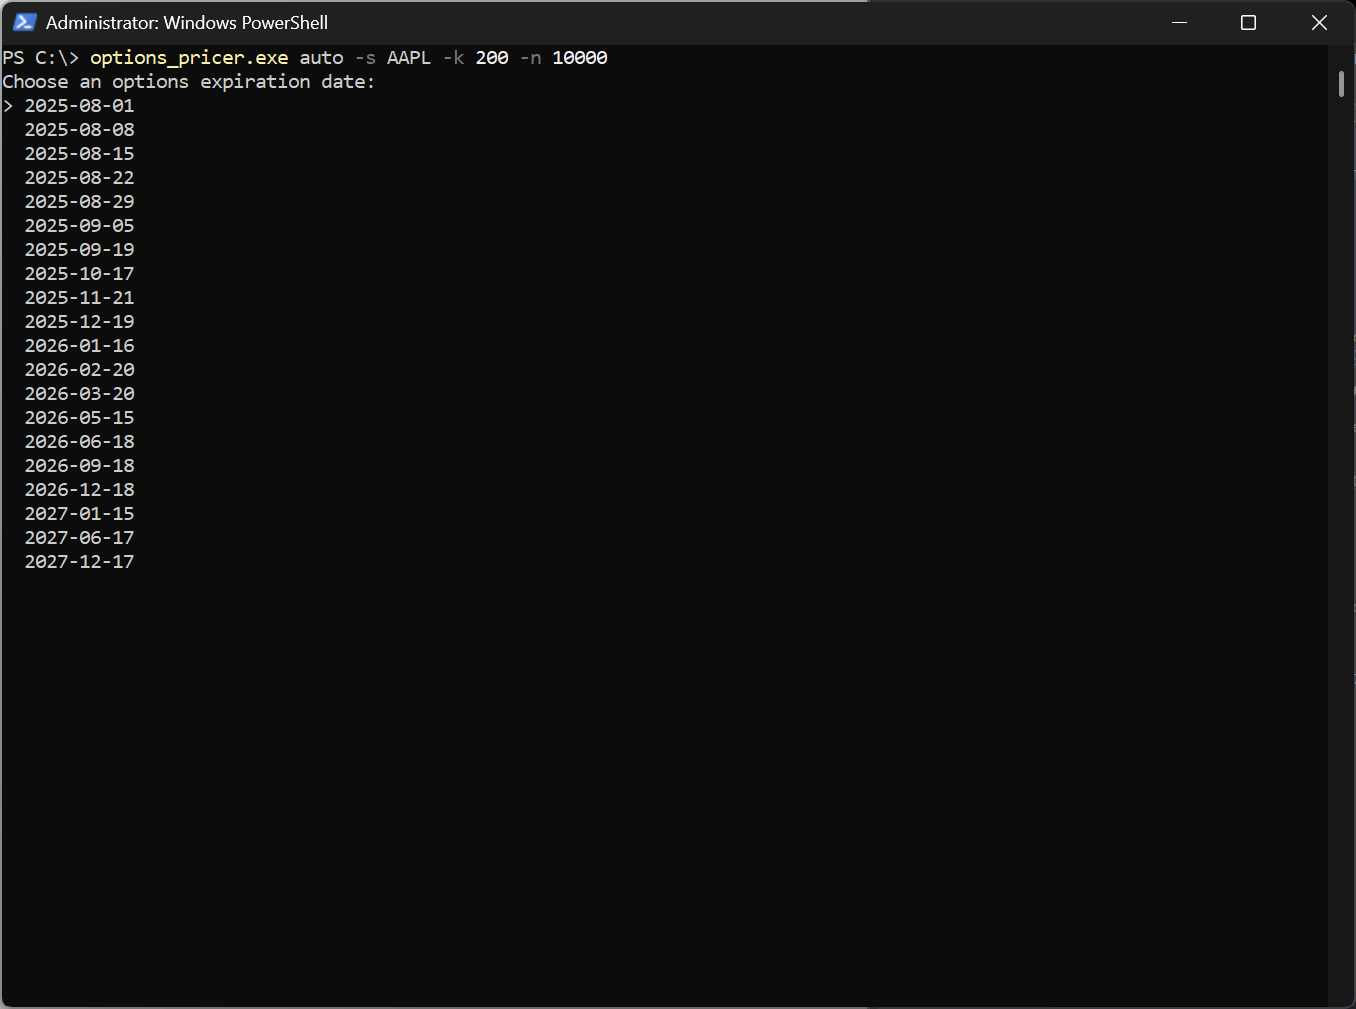
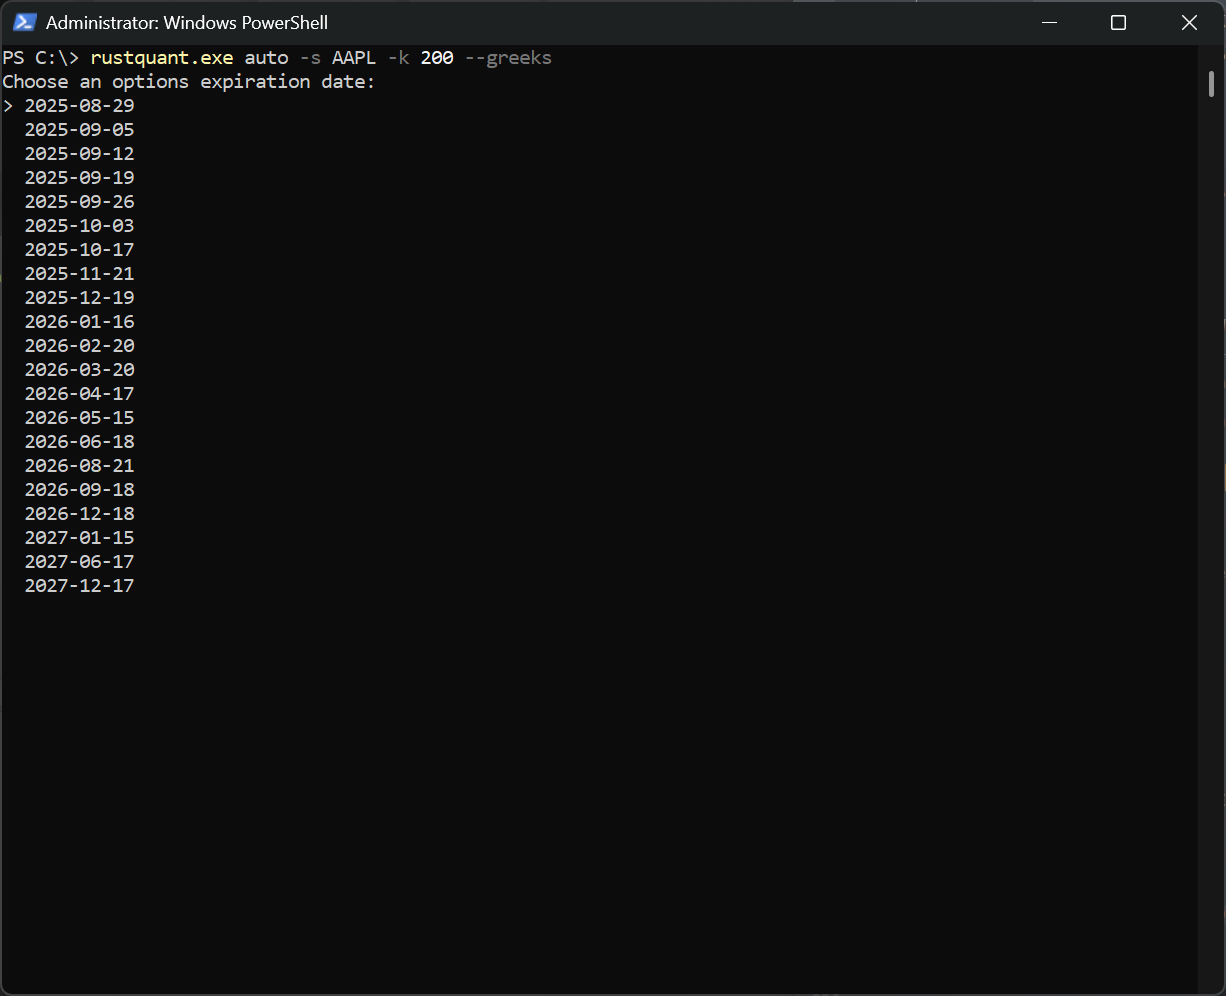
Updated rustquant

diff --git a/_posts/2025-07-27-Options-Pricer.md b/_posts/2025-07-27-Options-Pricer.md
@@ -1,5 +1,5 @@
 ---
-title: CLI Options Pricer
+title: RustQuant
 description: My cross-platform Rust CLI tool used to price financial options
 author: John
 date: 2025-07-27 16:00:00 +0800
@@ -8,8 +8,17 @@ tags: [Projects, Rust]
 media_subpath: '/assets/2025-07-27-Options-Pricer'
 ---
 
+#### Latest Version
 
-This past month, I set out to learn (according to Stack Overflow's developer survey) the "most loved" programming language, Rust. This proved to be a rather daunting task, but after reading up on the language and then playing around with its various unique features, I decided to develop a project I had originally envisioned a few months prior. I created a cross-platform [CLI tool](https://github.com/JohnDCode/JDA-CLI-Options-Pricer-Publish) that allows users to instantly calculate fair prices for live financial options contracts. 
+Version 0.4 of RustQuant introduces:
+
+- Manual pricing for European options (automatic pricing to come soon)
+- Calculation of Greeks
+
+
+This past month, I set out to learn (according to Stack Overflow's developer survey) the "most loved" programming language, Rust. This proved to be a rather daunting task, but after reading up on the language and then playing around with its various unique features, I decided to develop a project I had originally envisioned a few months prior. I created a cross-platform CLI tool that allows users to instantly calculate fair prices for live financial options contracts. 
+
+The [source](https://github.com/JohnDCode/RustQuant) and [compiled binaries](https://github.com/JohnDCode/RustQuant-Publish) for this project can be found on my [GitHub](https://github.com/JohnDCode).
 
 
 
@@ -27,7 +36,7 @@ There are various types of options and additional parameters that factor into th
 
 The purpose of this post is to demonstrate the CLI tool that utilizes these models, but I'll provide a brief overview of the development of these models and a high-level explanation of the ones I used. 
 
-Prior to the 1970's, there was no widely accepted mathematical method to price options contracts. Then, in 1973, Fischer Black, Myron Scholes, and Robert Merton developed the Black-Scholes model. This model can successfully estimate the theoretical worth of European style options contracts (and other derivatives).
+Prior to the 1970's, there was no widely accepted mathematical method to price options contracts. Then, in 1973, Fischer Black, Myron Scholes, and Robert Merton developed the Black-Scholes model. This model can successfully estimate the theoretical worth of European style options contracts (and other derivatives). This is the one of two models RustQuant utilizes. 
 
 However, for American contracts, there is an issue. Within each option contract is an exercise or expiration date. For European style options, the option can only be exercised on such a date while for American style options, the option can be exercised at any time up until or on that date. Due to this difference, the Black-Scholes model fails to price American style options. As such, a different approach is required.
 
@@ -60,11 +69,13 @@ See below for specific examples and all arguments/flags for each command, but he
 
 #### Automatic (auto)
 
-Both of these commands are used to price American options using the binomial model. The unique aspect of automatic mode is that this command calculates the fair price of live options contracts pulled from the asset's live options chain. The user provides the asset symbol, a strike price, and the number of steps to run the binomial simulation. The tool then pulls all available option expiration dates from the symbol's option chain, and displays them to the user in a drop down menu. The user selects a date, and the CLI tool selects the options contract with the strike price closest to the provided strike price that also expires on that day. The tool then uses the data pulled from the options chain, relevant market data, and the risk free rate from U.S. treasury securities, to calculate the fair value of that options contract.
+The unique aspect of automatic mode is that this command calculates the fair price of live options contracts pulled from the asset's live options chain. The user simply provides the asset symbol and a strike price. The tool then pulls all available option expiration dates from the symbol's option chain and displays them to the user in a drop down menu. The user selects a date, and the CLI tool selects the options contract with the strike price closest to the provided strike price that also expires on that day. The tool then uses the data pulled from the options chain, relevant market data, and the risk free rate from U.S. treasury securities, to calculate the fair value of that options contract.
+
+Note: The automatic command can only pull live options data for American options and will only use the binomial model.
 
 #### Manual
 
-This command calculates the fair value of theoretical American options contracts. Rather than pulling live data, each aspect of the option is provided manually (spot price, strike price, etc.). The command then uses the binomial model to price the theoretical option.
+This command calculates the fair value of theoretical American or European options contracts. Rather than pulling live data, each aspect of the option is provided manually (spot price, strike price, etc.). The command then uses the binomial model to price the theoretical option. It will also display the price using the Black-Scholes model if the option is European.
 
 <br />
 
@@ -76,9 +87,10 @@ This command calculates the fair value of theoretical American options contracts
 |:---           |:----                      |:----                                                  |
 |Symbol         |--symbol / -s \<SYMBOL\>   |The symbol to price                                    |
 |Strike         |--strike / -k \<STRIKE\>   |The target strike price for the selected option        |
-|Steps          |--steps / -n \<STEPS\>     |The number of steps in the binomial tree               |
+|Steps          |--steps / -n \<STEPS\>     |The number of steps in the binomial tree (default = 100)|
 |Call           |--call / -c                |Price a call option (default = true)                   |
 |Put            |--put / -p                 |Price a put option (default = false)                   |
+|Greeks			|--greeks / -g				|Display the 5 greeks alongside the calculated price 	|
 
 #### Manual
 
@@ -89,22 +101,27 @@ This command calculates the fair value of theoretical American options contracts
 |Time           |--time / -t \<STRIKE\>             |The time (in years) to expiration of the option        |
 |Rate           |--rate / -t \<STRIKE\>             |The risk free interest rate                            | 
 |Volatility     |--volatility / -v \<VOLATILITY\>   |The implied volatility of the option                   |
-|Steps          |--steps / -n \<STEPS\>             |The number of steps in the binomial tree               |
+|Steps          |--steps / -n \<STEPS\>             |The number of steps in the binomial tree (default = 100)|
 |Call           |--call / -c                        |Price a call option (default = true)                   |
 |Put            |--put / -p                         |Price a put option (default = false)                   |
+|American		|--american / -a					|Prices an American option (default = true)				|
+|European 		|--european / -e					|Prices a European option (default = false)				|
+|Greeks			|--greeks / -g						|Display the 5 greeks alongside the calculated price 	|
+
+Note: As of RustQuant 0.4, the STEPS argument is no longer required for either command. If it is not specified, it defaults to a value of 100.
 
 <br />
 
 ### Examples
 
-Note: I'm performing my tests on a Windows machine. The CLI is cross platform, with different versions being posted on the [project Github](https://github.com/JohnDCode/JDA-CLI-Options-Pricer-Publish).
+Note: I'm performing my tests on a Windows machine. The CLI is cross platform, with different versions being posted on the [project Github](https://github.com/JohnDCode/RustQuant-Publish).
 
 #### Example 1: Automatically Pricing a Live Apple Call Option
 
-Let's price a live Apple call option. We'll use the following command:
+Let's price a live Apple call option and display the greeks. We'll use the following command:
 
 ```console
-options_pricer.exe auto -s AAPL -k 200 -n 10000
+rustquant.exe auto -s AAPL -k 200 --greeks
 ```
 
 We do not need to specify the _--call_ flag, as the tool defaults to call options over put options.
@@ -121,12 +138,12 @@ _Powershell Window of Example 1_
 
 Our selected option has been priced at $US16.83!
 
-#### Example 2: Manually Pricing a Theoretical Call Option
+#### Example 2: Manually Pricing a European Theoretical Call Option
 
-Now, let's price the same option we did as above, but using the manual command to change the expiration date to 1 year from now. The command then becomes:
+Now, let's price the same option we did as above, but using the manual command to change the expiration date to 1 year from now and switching from an American to a European option. The command then becomes:
 
 ```console
-options_pricer.exe manual -s 213.95 -k 200 -t 1 -r 0.0424 -v 0.2965 -n 10000
+rustquant.exe manual -s 213.95 -k 200 -t 1 -r 0.0424 -v 0.2965 --european --greeks
 ```
 
 This changes the output to:
@@ -134,18 +151,15 @@ This changes the output to:
 ![Manual Output 1](/manualOutput1.png){: width="1356" height="1009" }
 _Powershell Window of Example 2_
 
-As we can see, the difference in expiration date has increased the price of the option to $36.64.
 
 <br />
 
 ### Conclusion
 
-Altogether, I am satisfied with this project. However, I did not fulfill my original goal of including support for the Black-Scholes model. As such, in the future I plan to add the following features:
+Altogether, I am satisfied with this project. The latest versions provide several new features, but I plan to continue adding to this project. Some features to come include:
 
-- Black-Scholes Model
-- Automatic and Manual European Options
-- Calculation of "The Greeks"
+- Automating pricing of European options using realtime data
+- Accounting for dividend payments in the pricing calculations
 
-Despite failure on the European support front, I still learned quite a bit. 
 
-Once again, you can try it for yourself using the compiled binaries on the [project Github](https://github.com/JohnDCode/JDA-CLI-Options-Pricer-Publish).
+Once again, you can compile and/or try it for yourself, with all code being listed on my [Github](https://github.com/JohnDCode).
